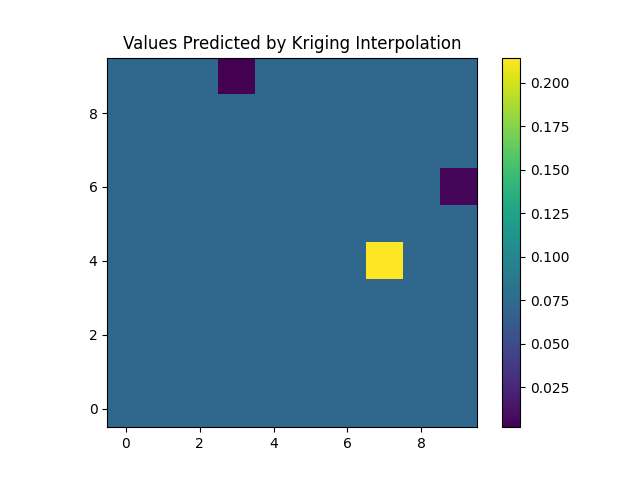
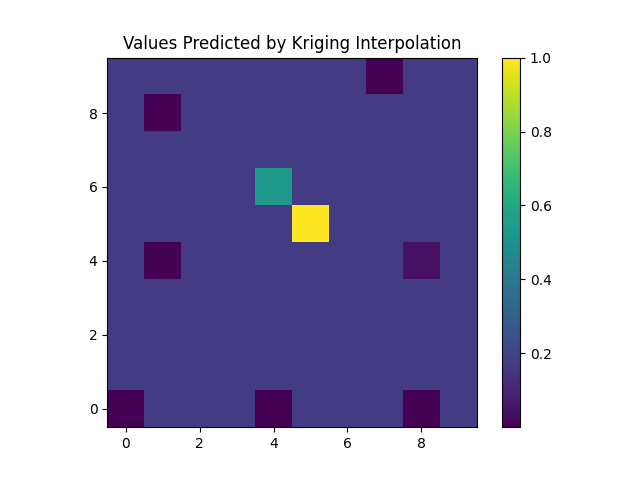
SSI implemented with queuing multiple goals per robot, though many new bugs need fixing, and auctioning should be less frequent, i.e. after each kriging interpolation

diff --git a/mesa_spatial_sampling_MRS/model.py b/mesa_spatial_sampling_MRS/model.py
@@ -2,7 +2,6 @@ __author__ = "Laurence Roberts-Elliott"
 import os
 import glob
 import random
-import queue
 
 import pandas as pd
 from mesa import Model, Agent
@@ -30,7 +29,7 @@ class Robot(Agent):
         # The Astar class from `astar-python` provides the A* implementation
         self.astar = Astar(self.movement_matrix)
         self.goal = []
-        self.goals = queue.Queue()
+        self.goals = {}
         self.bid = -1
         self.path = []
         self.path_step = 0
@@ -45,9 +44,39 @@ class Robot(Agent):
         self.waiting_time = 0
 
     # Each robot will execute this method at the start of a new time step in the simulation
-    # TODO: Allow goals to be added to a queue
     def step(self):
         self.deadlocked = False
+        # If the robot has no goal, and only 1 goal in its queue, assign that goal
+        if not self.goal and len(self.goals) == 1:
+            goal_pos = list(self.goals.keys())[0]
+            self.goals.pop(goal_pos)
+            # print(type(goal_pos))
+            goal_pos = goal_pos.strip("',[]()")
+            goal_pos = goal_pos.split(", ")
+            goal_pos = tuple([int(coord) for coord in goal_pos])
+            # print(goal_pos)
+            self.sample_pos(goal_pos)
+            # self.goals.pop(str(goal_pos))
+        elif not self.goal and len(self.goals) > 0:
+            # Recalculate the costs for each of the robot's goal based on its current position
+            for goal in self.goals.keys():
+                # Convert goal position from key to tuple from string
+                goal_tuple = goal.strip("',[]()")
+                goal_tuple = goal_tuple.split(", ")
+                goal_tuple = tuple([int(coord) for coord in goal_tuple])
+                self.goals[goal] = np.sum([self.movement_matrix[step[0], step[1]] for step in self.astar.run(
+                    self.pos, goal_tuple)])
+
+            # Assign the lowest travel cost goal from the robot's goal queue
+            goal_pos = sorted(self.goals)[0]
+            goal_pos = goal_pos.strip("',[]()")
+            goal_pos = goal_pos.split(", ")
+            goal_pos = tuple([int(coord) for coord in goal_pos])
+            print(goal_pos)
+            self.sample_pos(goal_pos)
+            # self.goals.pop(str(goal_pos))
+            # self.sample_pos(tuple(goal_pos))
+
         if self.path is not None:
             if 0 < self.path_step < len(self.path) - 1:
                 # Comment the following line to disable cost based collision avoidance. Updates the robot's cost map
@@ -217,6 +246,8 @@ class Robot(Agent):
                                                   v_ind_sorted[0][-r]] for r in range(1,
                                                                                       (len(self.model.robots) + 1))]
                     print("Candidate goals:", self.model.candidate_goals)
+        elif len(self.goals) > 0:
+            print(self.goals)
 
         # print("Robot", str(self.unique_id), "current cell:", str(self.pos))
         # print("Robot", str(self.unique_id), "previous cell:", str(self.trajectory[len(self.trajectory) - 2]))
@@ -233,6 +264,12 @@ class Robot(Agent):
         print("Robot", self.unique_id, "assigned task at", self.goal, "at step", self.model.step_num)
         self.path = self.astar.run(self.pos, self.goal)
         self.path_step = 1
+
+    def queue_sampling(self, goal_pos):
+        print("Robot", self.unique_id, "added task at", goal_pos, " to queue at step", self.model.step_num)
+        # Add goal to queue with value equal to path cost
+        self.goals[str(goal_pos)] = np.sum([self.movement_matrix[step[0], step[1]] for step in self.astar.run(
+                            self.pos, goal_pos)])
 
 
 # A class to represent a sampled cell as a MESA agent to enable visualisation of the sampled value on the grid
@@ -338,7 +375,7 @@ class SpatialSamplingModel(Model):
                                 other_agent.movement_matrix[cell[1], cell[0]] = 10
 
                 if self.step_num == 1:
-                    agent.sample_pos(agent.pos)
+                    agent.queue_sampling(agent.pos)
                 elif not agent.goal:  # If the current robot in the iteration has no goal
                     # assign it one at an unsampled cell
                     goal_ind = 0
@@ -373,8 +410,11 @@ class SpatialSamplingModel(Model):
                             # and is not already assigned to another robot
                         agent.sample_pos(goal_pos)
 
+        # TODO: Perform a new round of SSI task allocation each time a new value is sampled
+        # rather than at each time step
         if self.task_allocation == "SSI":
             for task in self.candidate_goals:
+                print("Bidding on task at", task)
                 bids = {}
                 for agent in self.schedule.agents:
                     if agent.type == 0:  # True if the agent is a robot
@@ -389,7 +429,8 @@ class SpatialSamplingModel(Model):
                     if agent.type == 0:  # True if the agent is a robot
                         if str(agent.unique_id) == winning_agent:
                             print("Winning agent:", str(agent.unique_id))
-                            agent.sample_pos(goal_pos)
+                            # agent.sample_pos(goal_pos)
+                            agent.queue_sampling(task)
 
         print("")
 
